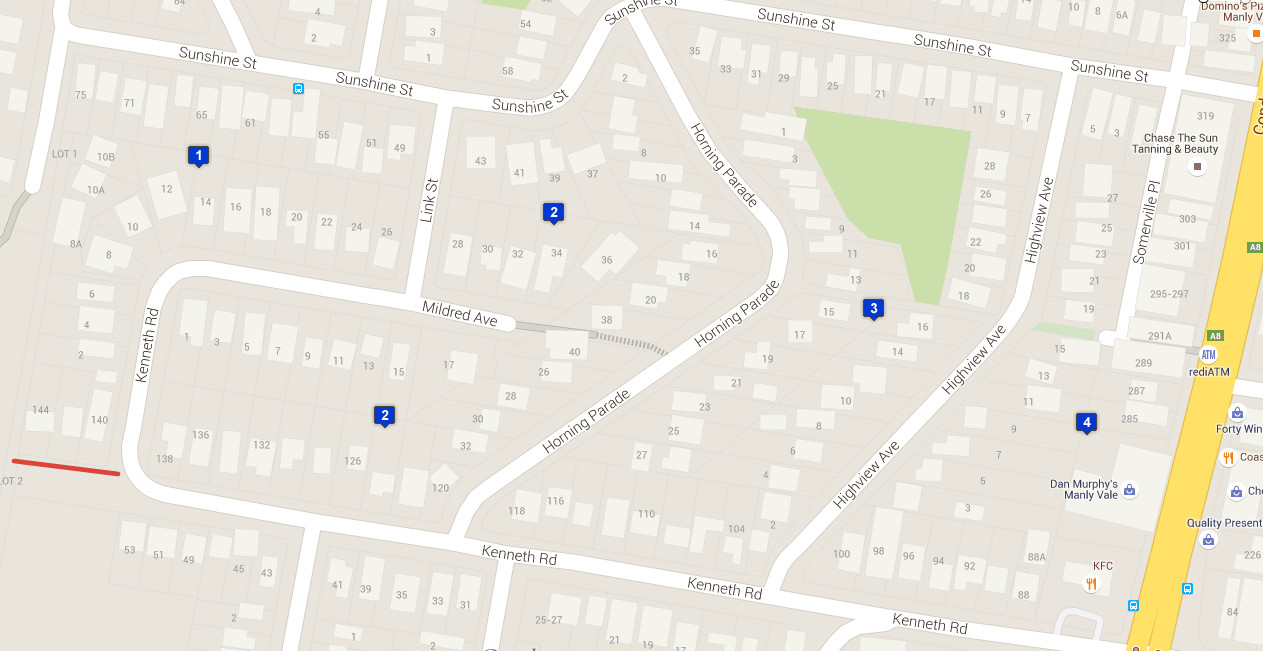
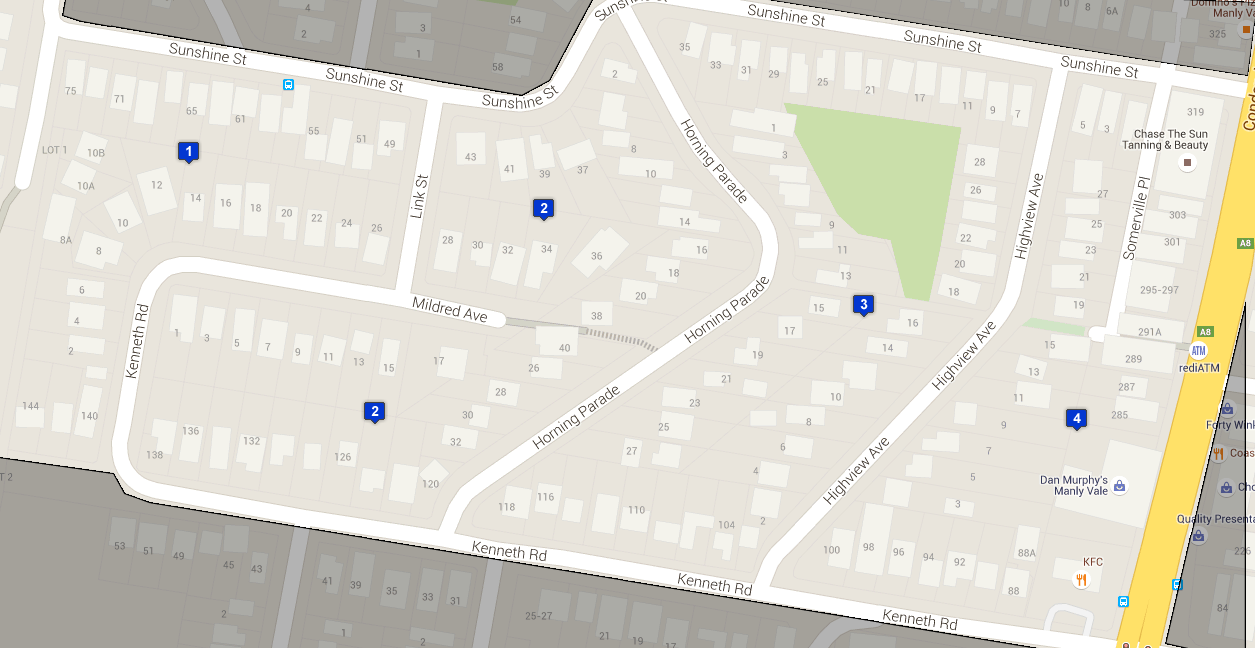
replace map 26

diff --git a/index.html b/index.html
@@ -76,7 +76,7 @@
     <li data-src="img/maps/23.jpg" data-locality="Manly Vale" class="index__item">23</li>
     <li data-src="img/maps/24.jpg" data-locality="Manly Vale" class="index__item">24</li>
     <li data-src="img/maps/25.png" data-locality="Manly Vale" class="index__item">25</li>
-    <li data-src="img/maps/26.jpg" data-locality="Manly Vale" class="index__item">26</li>
+    <li data-src="img/maps/26.png" data-locality="Manly Vale" class="index__item">26</li>
     <li data-src="img/maps/27.jpg" data-locality="North Balgowlah" class="index__item">27</li>
     <li data-src="img/maps/28.jpg" data-locality="North Balgowlah" class="index__item">28</li>
     <li data-src="img/maps/29.jpg" data-locality="North Balgowlah" class="index__item">29</li>
